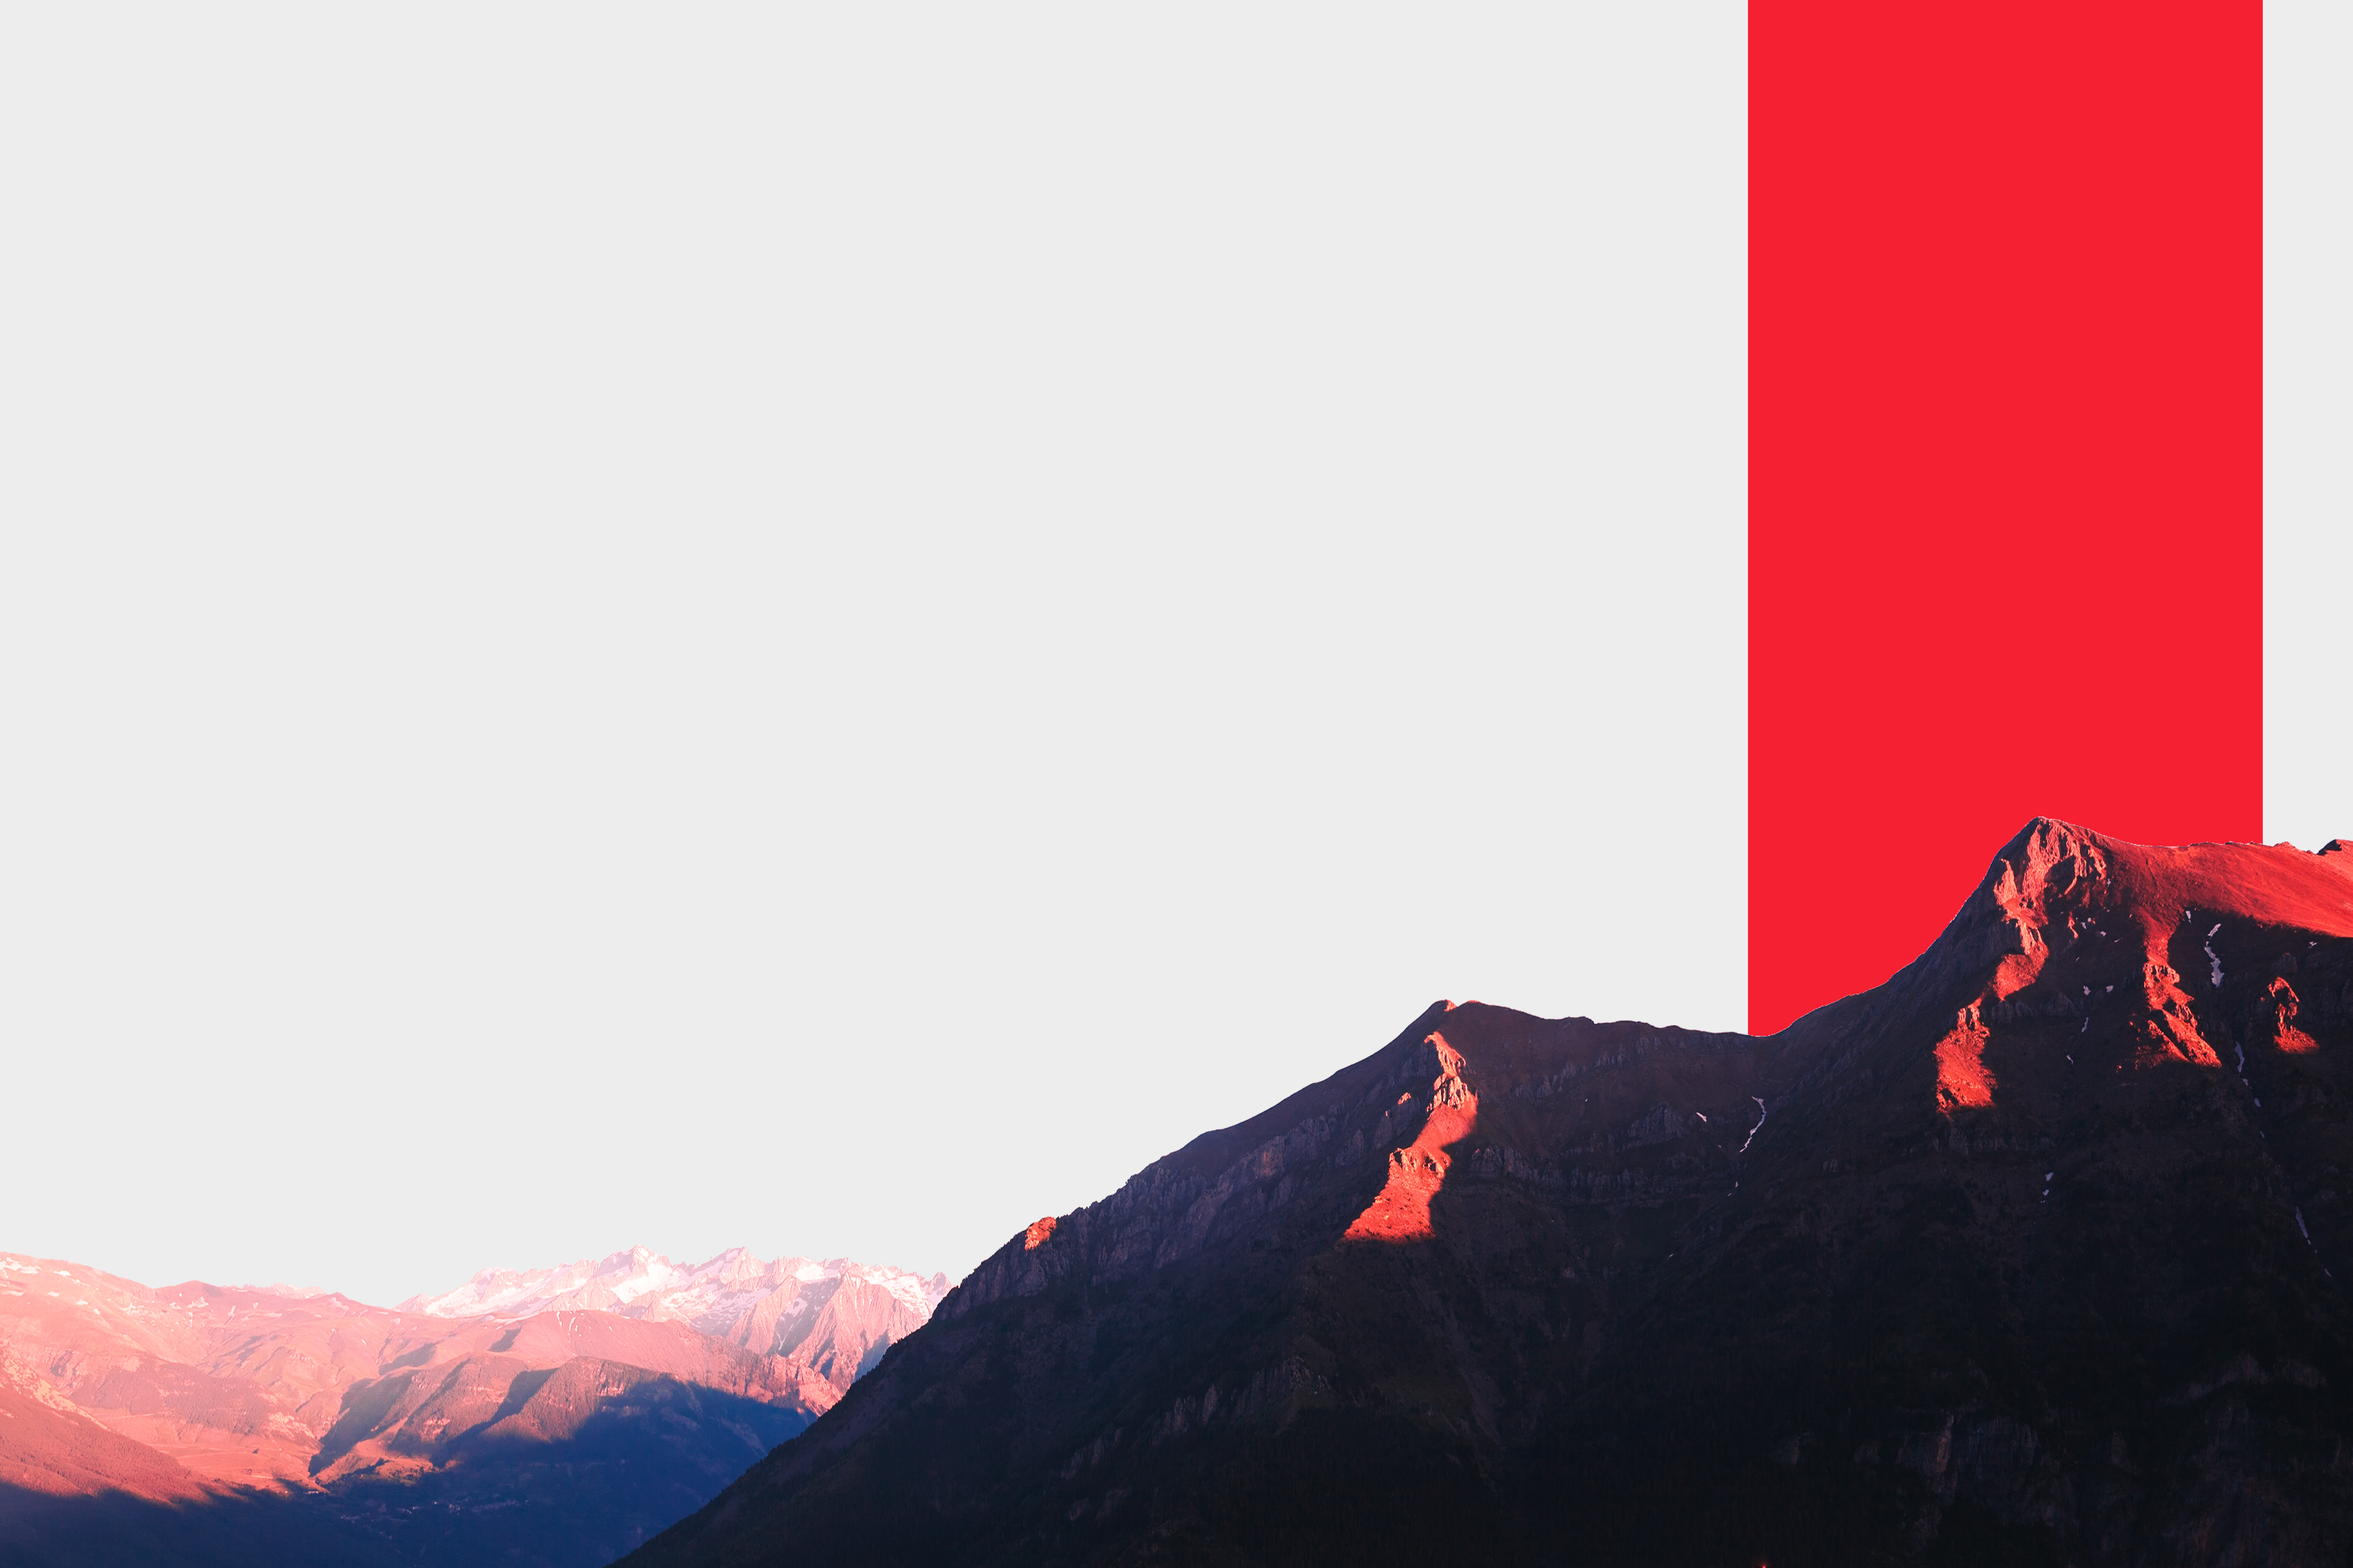
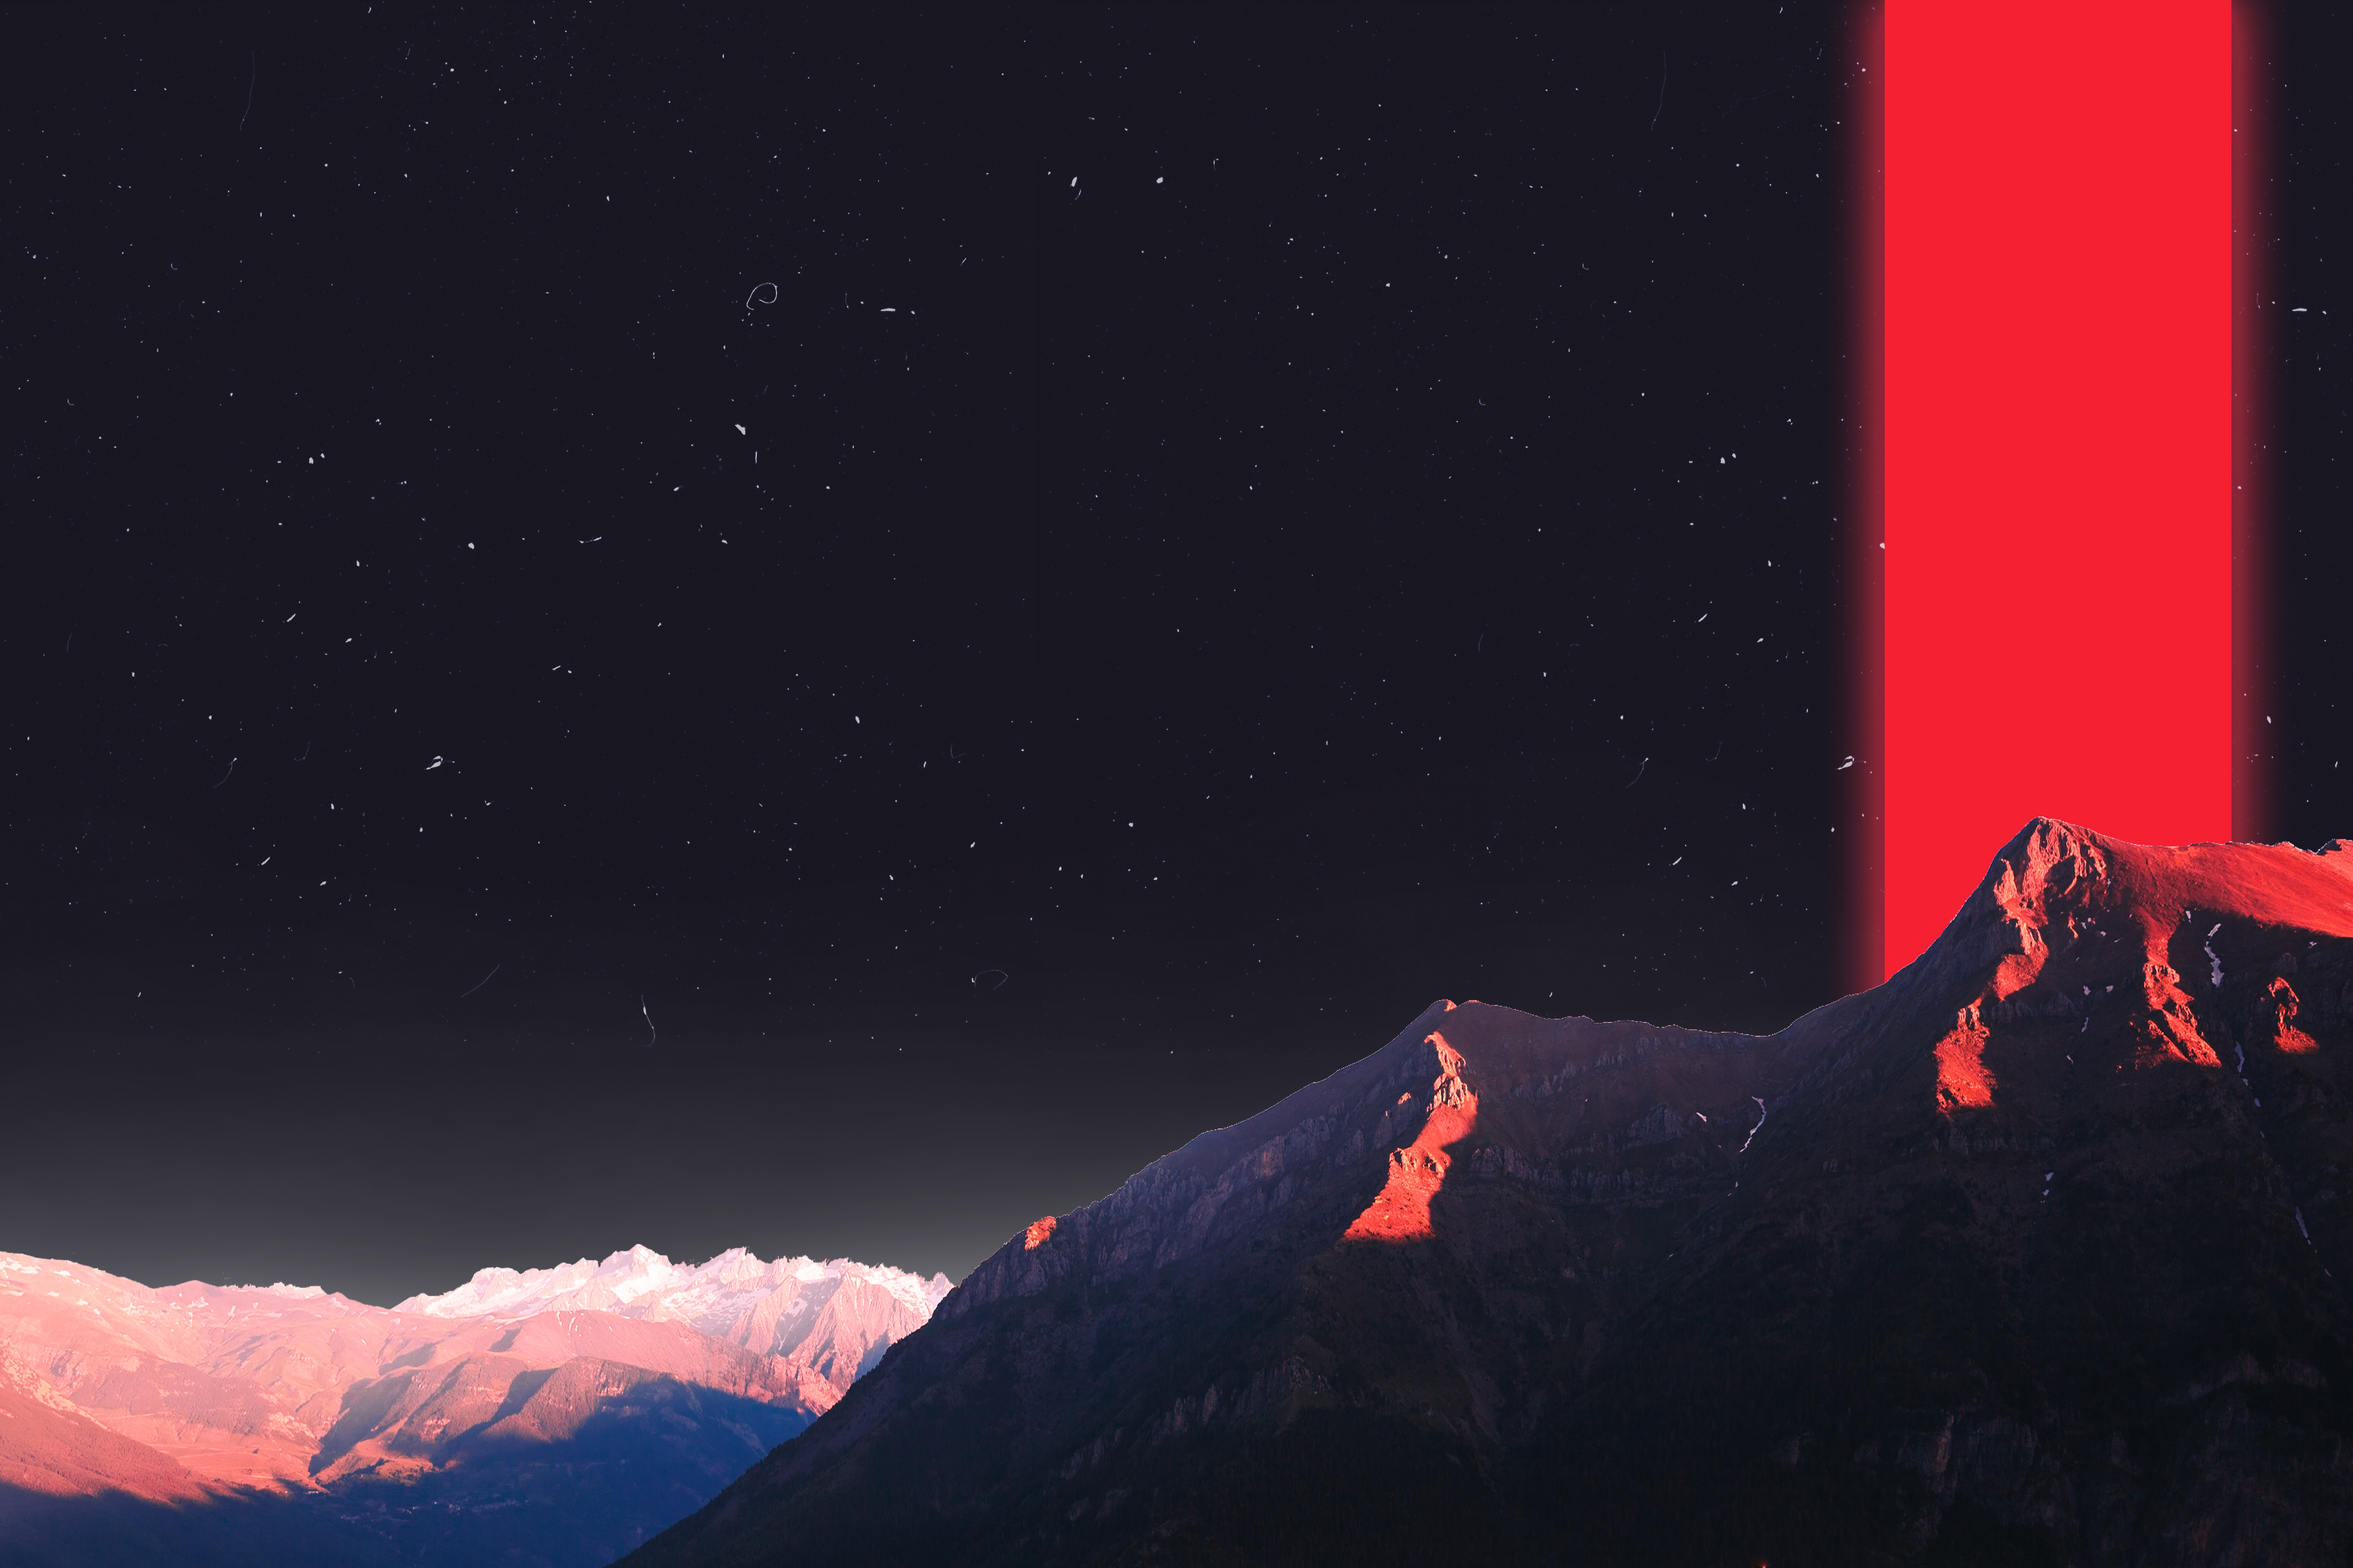
home page dark theme

diff --git a/src/pages/Home.jsx b/src/pages/Home.jsx
@@ -1,9 +1,28 @@
 import './Home.css';
 import Footer from '../components/Footer';
 import Menu from '../components/Menu';
+// import { useHistory } from "react-router-dom";
 // import { Link } from 'react-router-dom';
 
 function Home() {
+
+    // const history = useHistory();
+
+    // const aboutRoute = (event) => {
+    //     event.preventDefault();
+    //     history.push("/about");
+    // }
+
+    // const artworksRout = (event) => {
+    //     event.preventDefault();
+    //     history.push("/design");
+    // }
+
+    // const editsRoute = (event) => {
+    //     event.preventDefault();
+    //     history.push("/edits");
+    // }
+
     return(
         <div className="home">
             <Menu />
@@ -15,80 +34,30 @@ function Home() {
                     acessar o repositório dessa página clicando neste <a href="https://github.com/gabriella-guimaraes/GXBIE-SPACE" target="blank">link</a></p>
                 </div>
             </section>
-            <section className="feed">
+            {/* <section className="feed">
                 <h1>Posts</h1>
-                <div>
-                    <p>Lorem ipsum dolor sit amet consectetur
-                       adipiscing elit semper rutrum rhoncus bibendum 
-                       ultricies ullamcorper erat, facilisis interdum 
-                       placerat maecenas sollicitudin nisi praesent
-                        pellentesque ridiculus ornare ante tempus augue.
-                         Volutpat varius sed auctor neque duis dolor 
-                         rhoncus cras, fringilla lacus amet ut parturient
-                         quam curabitur, placerat ullamcorper sociosqu
-                          montes dictum imperdiet id. Tempus et dignissim
-                           tellus habitant hac integer varius enim in 
-                           ornare magna libero, nostra donec senectus 
-                           class justo gravida ad iaculis mi finibus semper, 
-                           tincidunt nascetur mauris rutrum nec hendrerit
-                            consectetur elit fusce ligula natoque. Magna
-                             molestie fusce varius facilisis eros gravida
-                              cras, tristique dapibus pretium ligula nec
-                               proin a morbi, mattis mollis suscipit non nam 
-                               felis. Odio viverra scelerisque urna dignissim 
-                               onsequat facilisi rhoncus neque nam et, sed curae
-                               us himenaeos sollicitudin parturient etiam cras
-                               </p>
+                <div className="posts" onClick={(event) => aboutRoute(event)}>
+                    <h1 className="post-tittle">Conheça a dev!</h1>
+                    <section className="post-content">
+                        <p className="post-text">Estudante de Desenvolvimento Front-End na Laboratória. Busco trazer um olhar criativo para desenvolver 
+                        soluções tecnológicas, designs e edições. Sou uma pessoa curiosa, proativa e que ama aprender coisas novas. Acredito que a vida
+                        é um constante processo de aprendizagem.</p>
+                        <img src="../images/20210122_141338edited.jpg" alt="developer selfie" className="profileImg" />
+                    </section>
                 </div>
-                <div>
-                    <p>Lorem ipsum dolor sit amet consectetur
-                       adipiscing elit semper rutrum rhoncus bibendum 
-                       ultricies ullamcorper erat, facilisis interdum 
-                       placerat maecenas sollicitudin nisi praesent
-                        pellentesque ridiculus ornare ante tempus augue.
-                         Volutpat varius sed auctor neque duis dolor 
-                         rhoncus cras, fringilla lacus amet ut parturient
-                         quam curabitur, placerat ullamcorper sociosqu
-                          montes dictum imperdiet id. Tempus et dignissim
-                           tellus habitant hac integer varius enim in 
-                           ornare magna libero, nostra donec senectus 
-                           class justo gravida ad iaculis mi finibus semper, 
-                           tincidunt nascetur mauris rutrum nec hendrerit
-                            consectetur elit fusce ligula natoque. Magna
-                             molestie fusce varius facilisis eros gravida
-                              cras, tristique dapibus pretium ligula nec
-                               proin a morbi, mattis mollis suscipit non nam 
-                               felis. Odio viverra scelerisque urna dignissim 
-                               onsequat facilisi rhoncus neque nam et, sed curae
-                               us himenaeos sollicitudin parturient etiam cras
-                               </p>
+                <div className="posts" onClick={(event) => artworksRout(event)}>
+                    <h1>Artworks</h1>
+                    <p>Coleção de desenhos e concept arts</p>
                 </div>
-                <div>
-                    <p>Lorem ipsum dolor sit amet consectetur
-                       adipiscing elit semper rutrum rhoncus bibendum 
-                       ultricies ullamcorper erat, facilisis interdum 
-                       placerat maecenas sollicitudin nisi praesent
-                        pellentesque ridiculus ornare ante tempus augue.
-                         Volutpat varius sed auctor neque duis dolor 
-                         rhoncus cras, fringilla lacus amet ut parturient
-                         quam curabitur, placerat ullamcorper sociosqu
-                          montes dictum imperdiet id. Tempus et dignissim
-                           tellus habitant hac integer varius enim in 
-                           ornare magna libero, nostra donec senectus 
-                           class justo gravida ad iaculis mi finibus semper, 
-                           tincidunt nascetur mauris rutrum nec hendrerit
-                            consectetur elit fusce ligula natoque. Magna
-                             molestie fusce varius facilisis eros gravida
-                              cras, tristique dapibus pretium ligula nec
-                               proin a morbi, mattis mollis suscipit non nam 
-                               felis. Odio viverra scelerisque urna dignissim 
-                               onsequat facilisi rhoncus neque nam et, sed curae
-                               us himenaeos sollicitudin parturient etiam cras
-                               </p>
+                <div className="posts" onClick={(event) => editsRoute(event)}>
+                    <h1>Adobe Lightroom filters</h1>
+                    <p>Coleção de filtros gratuitos para Adobe Lightroom</p>
                 </div>
-            </section>
+            </section> */}
             <Footer />
         </div>
     )
 }
 export default Home;
+
+// gatinha arruma o flex e faz o box shadow com vinho. Não esqueça das media query

diff --git a/src/pages/Home.css b/src/pages/Home.css
@@ -29,18 +29,19 @@ body {
   max-height: 100px;
   margin: 0 99px;
   padding: 177px 0px;
+  color: #ededed;
 }
 
 #introTitle{
-  font-size: 70px;
+  font-size: 67px;
 }
 
 #introText{
-  font-size: 26px;
+  font-size: 23px;
 }
 
 #introText a {
-  color: #73022c;
+  color: #f52032;
   cursor: pointer;
 }
 
@@ -129,3 +130,41 @@ body {
     max-width: 100%;
   }
 } */
+
+.posts{
+  margin: 0 auto;
+  max-width: 80%;
+  margin-top: 30px;
+  margin-bottom: 30px;
+  padding: 20px 20px;
+  background-color: #cec3ca81;
+  cursor: pointer;
+}
+
+.posts:hover{
+  background: #a89ea581;
+  transition: .5s;
+}
+
+.post-content{
+  display: flex;
+}
+
+.profileImg{
+  max-width: 250px;
+  margin-left: 12px;
+  /* box-shadow: 60px -16px teal; */
+  -webkit-box-shadow:18px -10px 0px 0px rgb(119, 7, 22);
+  -moz-box-shadow:18px -10px 0px 0px rgba(119, 7, 22, 0.75);
+  box-shadow: 18px -10px 0px 0px rgba(119, 7, 22, 0.75);
+}
+
+.post-tittle{
+  font-size: 32px;
+  display: inline-block;
+}
+
+.post-text{
+  margin-top: 10px;
+}
+

diff --git a/src/components/Menu.css b/src/components/Menu.css
@@ -7,8 +7,8 @@
 }
 
 nav{
-    background-color: #875b78;
-    height: 80px;
+    background-color: #25232e;
+    height: 65px;
     width: 100%;
 }
 
@@ -27,7 +27,7 @@ nav ul{
 
 nav ul li{
     display: inline-block;
-    line-height: 80px;
+    line-height: 70px;
     margin: 0 5px;
 }
 
@@ -83,7 +83,7 @@ a.active,a:hover{
         position: fixed;
         width: 100%;
         height: 100vh;
-        background: #494046;
+        background: #2e2c38;
         top: 80px;
         right: -103%;
         text-align: center;

diff --git a/src/components/Menu.jsx b/src/components/Menu.jsx
@@ -19,7 +19,7 @@ function Menu() {
                         <Link className="active" to="/">Home</Link>
                     </li>
                     <li>
-                        <Link className="active" to="/sobre">Sobre</Link>
+                        <Link className="active" to="/about">Sobre</Link>
                     </li>
                     <li>
                         <Link className="active" to="/design">Design</Link>

diff --git a/src/index.js b/src/index.js
@@ -13,7 +13,7 @@ ReactDOM.render(
     <Switch>
 
       <Route path="/" component={Home} exact />
-      <Route path="/sobre" component={About} exact />
+      <Route path="/about" component={About} exact />
       <Route path="/design" component={Design} exact />
       <Route path="/edits" component={Edits} exact />
 

diff --git a/src/components/Footer.css b/src/components/Footer.css
@@ -1,5 +1,5 @@
 .footer{
-    background-color: #875b78;
+    background-color: #25232e;
     height: 25px;
     width: 100%;
     text-align: center;
